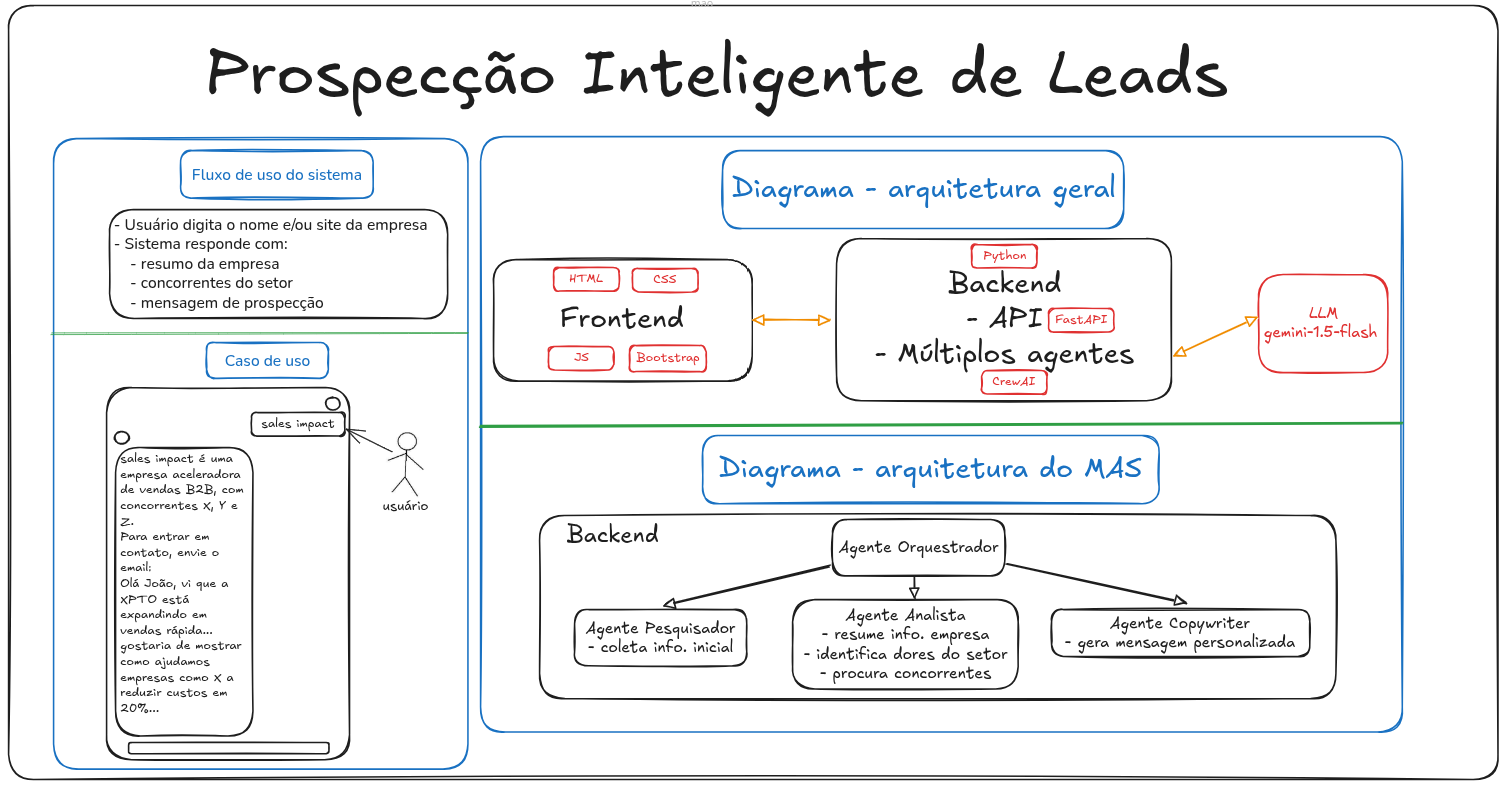
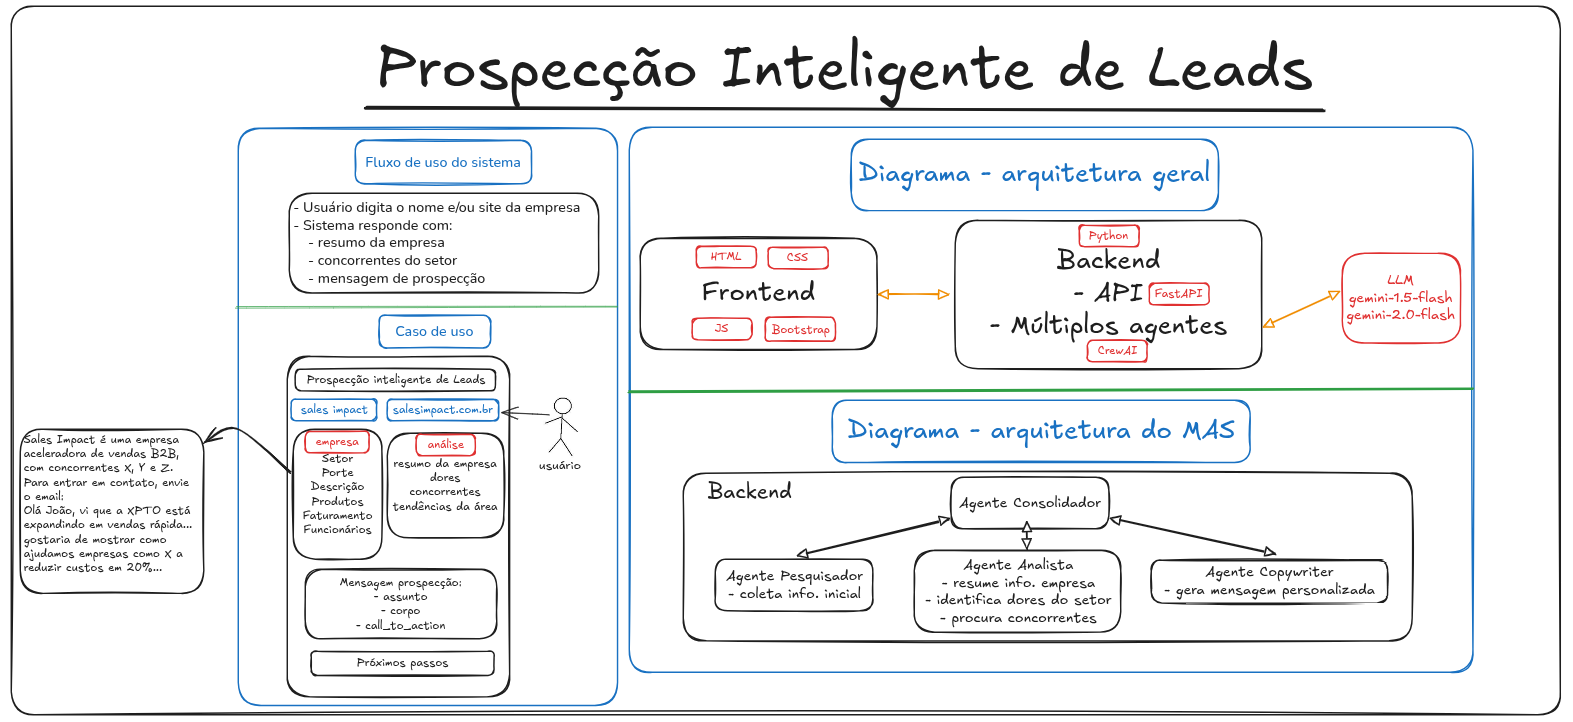
docs: atualização do README e imagem de arquitetura simplificada
- Adicionada a estrutura do projeto (diretórios) no README
- Imagem da arquitetura foi atualizada com o agente consolidador

Changed region(s): [[0.0, 0.0, 1.0, 1.0], [0.0625, 0.4875, 0.0938, 0.518]]

diff --git a/README.md b/README.md
@@ -24,7 +24,7 @@ HTML, CSS, JS e Bootstrap → formulário simples para interação.
 - 🔎 Pesquisador → coleta informações iniciais da empresa.
 - 📊 Analista → resume informações e identifica concorrentes.
 - ✍ Copywriter → gera mensagem de prospecção personalizada.
-- 🎯 Orquestrador → coordena a execução dos agentes.
+- 🎯 Consolidador → consolida e administra a saída dos demais agentes.
 
 ### ⚙ Tecnologias utilizadas
 - Python 3.12+
@@ -35,7 +35,24 @@ HTML, CSS, JS e Bootstrap → formulário simples para interação.
 - Bootstrap 5
 
 ## 📂 Estrutura do Projeto
-// **Todo**: adicionar estrutura (`tree .`) do projeto
+``` bash
+.
+├── backend
+│   ├── agents
+│   │   └── config
+│   ├── core
+│   ├── endpoints
+│   ├── schemas
+│   ├── services
+│   └── tests
+│       ├── http_requests
+│       └── unit
+├── docs
+└── frontend
+    ├── assets
+    ├── scripts
+    └── styles
+```
 
 ## 🔑 Variáveis de Ambiente
 Crie um arquivo `.env` dentro de `backend/` baseado em [`.env.example`](backend/.env.example):
